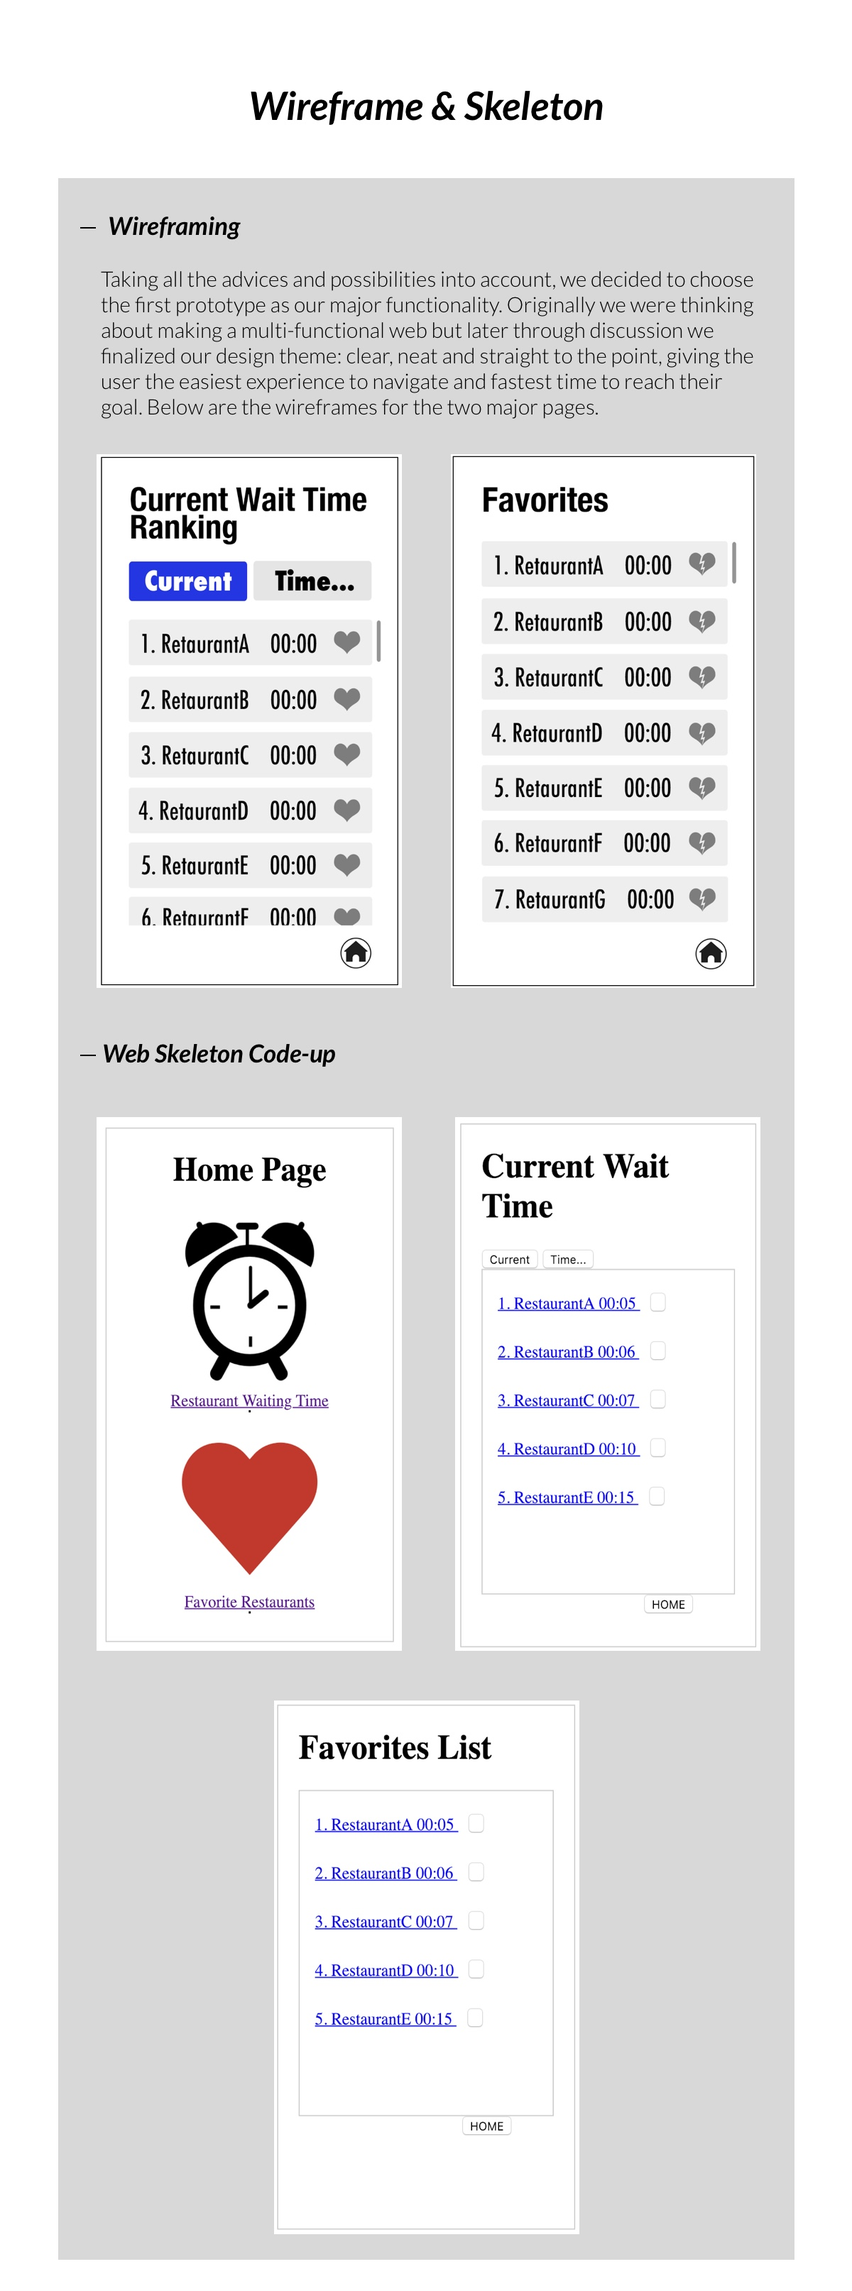
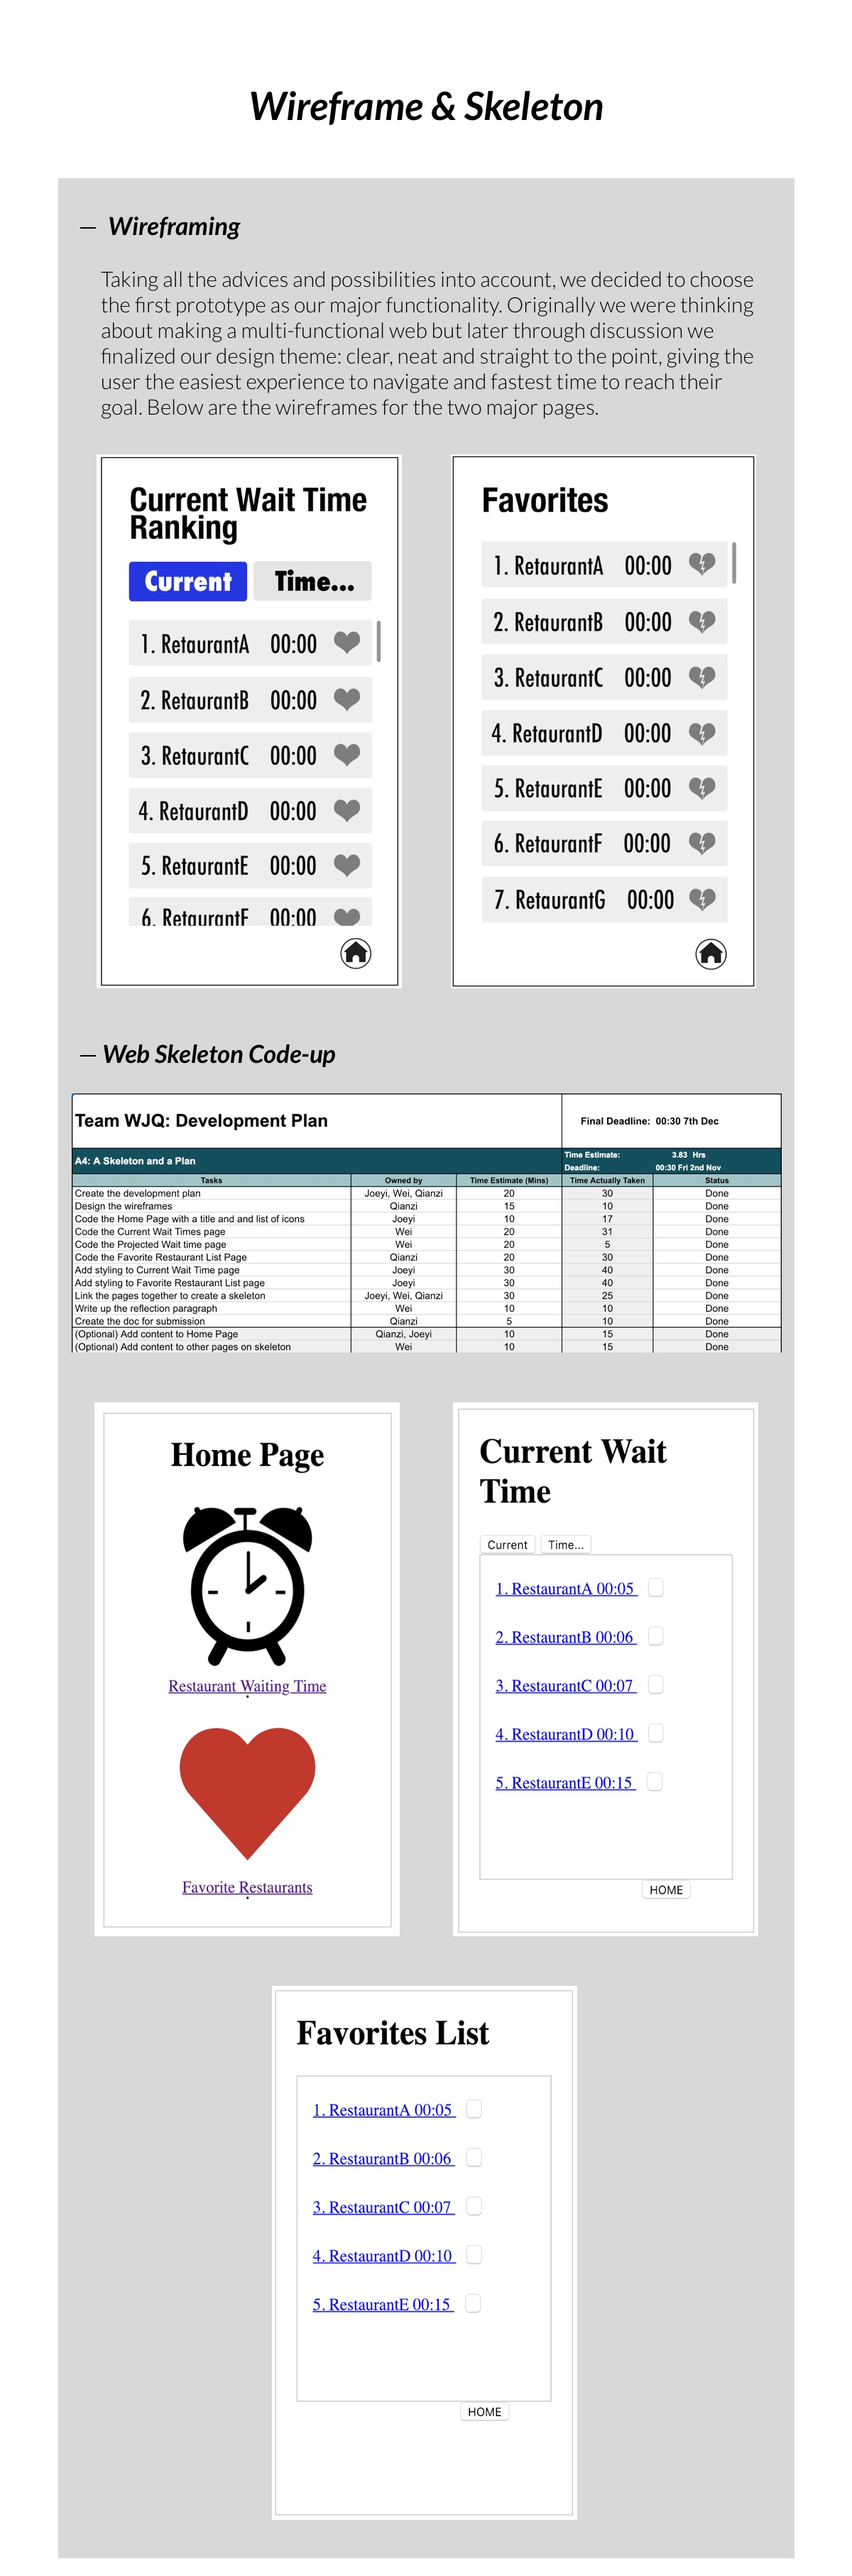
change dev position

Changed region(s): [[0.0617, 0.031, 0.925, 1.0]]

diff --git a/waitless.html b/waitless.html
@@ -132,11 +132,9 @@
       <!-- A4 -->
       <img src="img/A4.jpg"/>
       <!-- Link to skeleton -->
-      <a style="text-decoration: none; font-size: 45px; font-family: 'Lato', sans-serif;" href="https://ste519.github.io/EatFaster/index.html">Visit the Skeleton Page!</a>
+      <a style="text-decoration: none; font-size: 45px; font-family: 'Lato', sans-serif;" href="https://ste519.github.io/EatFaster/index.html"> Click to visit the Skeleton Page!</a>
       <!-- repov -->
       <img style="padding-top: 30px;" src="img/repov.jpg"/>
-      <!-- A4 Dev -->
-      <img src="img/a4dev.jpg"/>
     </div>
 
   </div>
